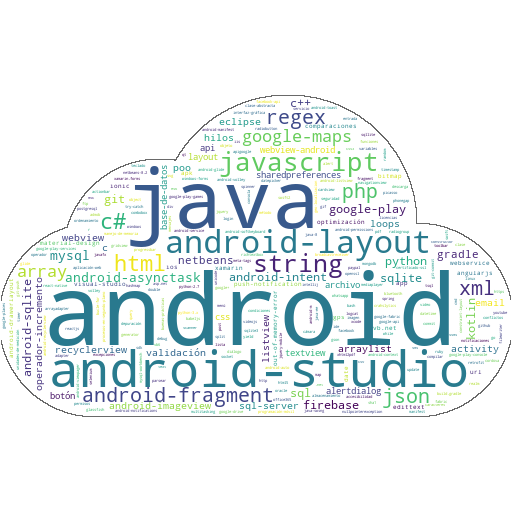
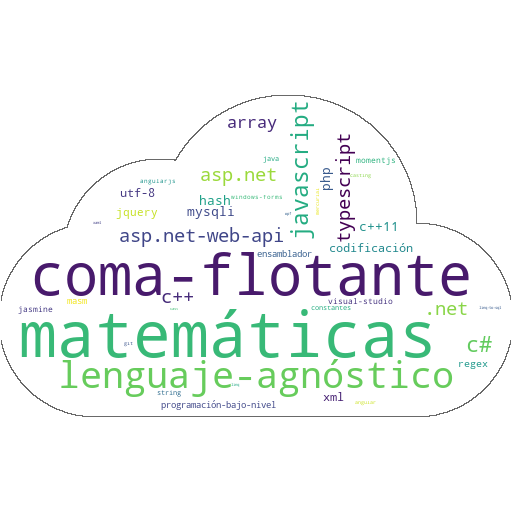
codd2

Changed region(s): [[0.0, 0.1875, 1.0, 0.8125]]

diff --git a/pythonProject/codeProyecto.py b/pythonProject/codeProyecto.py
@@ -80,15 +80,14 @@ def mostrarEtiquetas():
 
 def generarNube():
     dic = dict(zip(listaTags, listaVotos))
+    maxWords = len(listaVotos)
     cloudPNG = np.array(Image.open("mask.png"))
     maskCloud = np.ndarray((cloudPNG.shape[ 0 ], cloudPNG.shape[ 1 ]), np.int32)
     for i in range(len(cloudPNG)) :
         maskCloud[ i ] = list(map(mapearMascara, cloudPNG[ i ]))
-    wc = WordCloud(background_color='white', max_words=1000, mask=maskCloud, contour_width=0.01,
+    wc = WordCloud(background_color='white', max_words = maxWords, mask=maskCloud, contour_width=0.01,
                        contour_color='dimgray').generate_from_frequencies(dic)
 
-
-    wc.to_file("nube.png")
     plt.figure(figsize=[ 10, 7 ])
     plt.imshow(wc, interpolation='bilinear')
     plt.axis("off")
@@ -114,6 +113,7 @@ try :
             else:
                 datosUser()
                 buscarEtiquetas()
+
                 try:
                     opcion = int(input('\n 1: Ver etiquetas \n 2: Ver nube de etiquetas \n 3: salir \n OPCION: '))
                     while opcion != 3:
